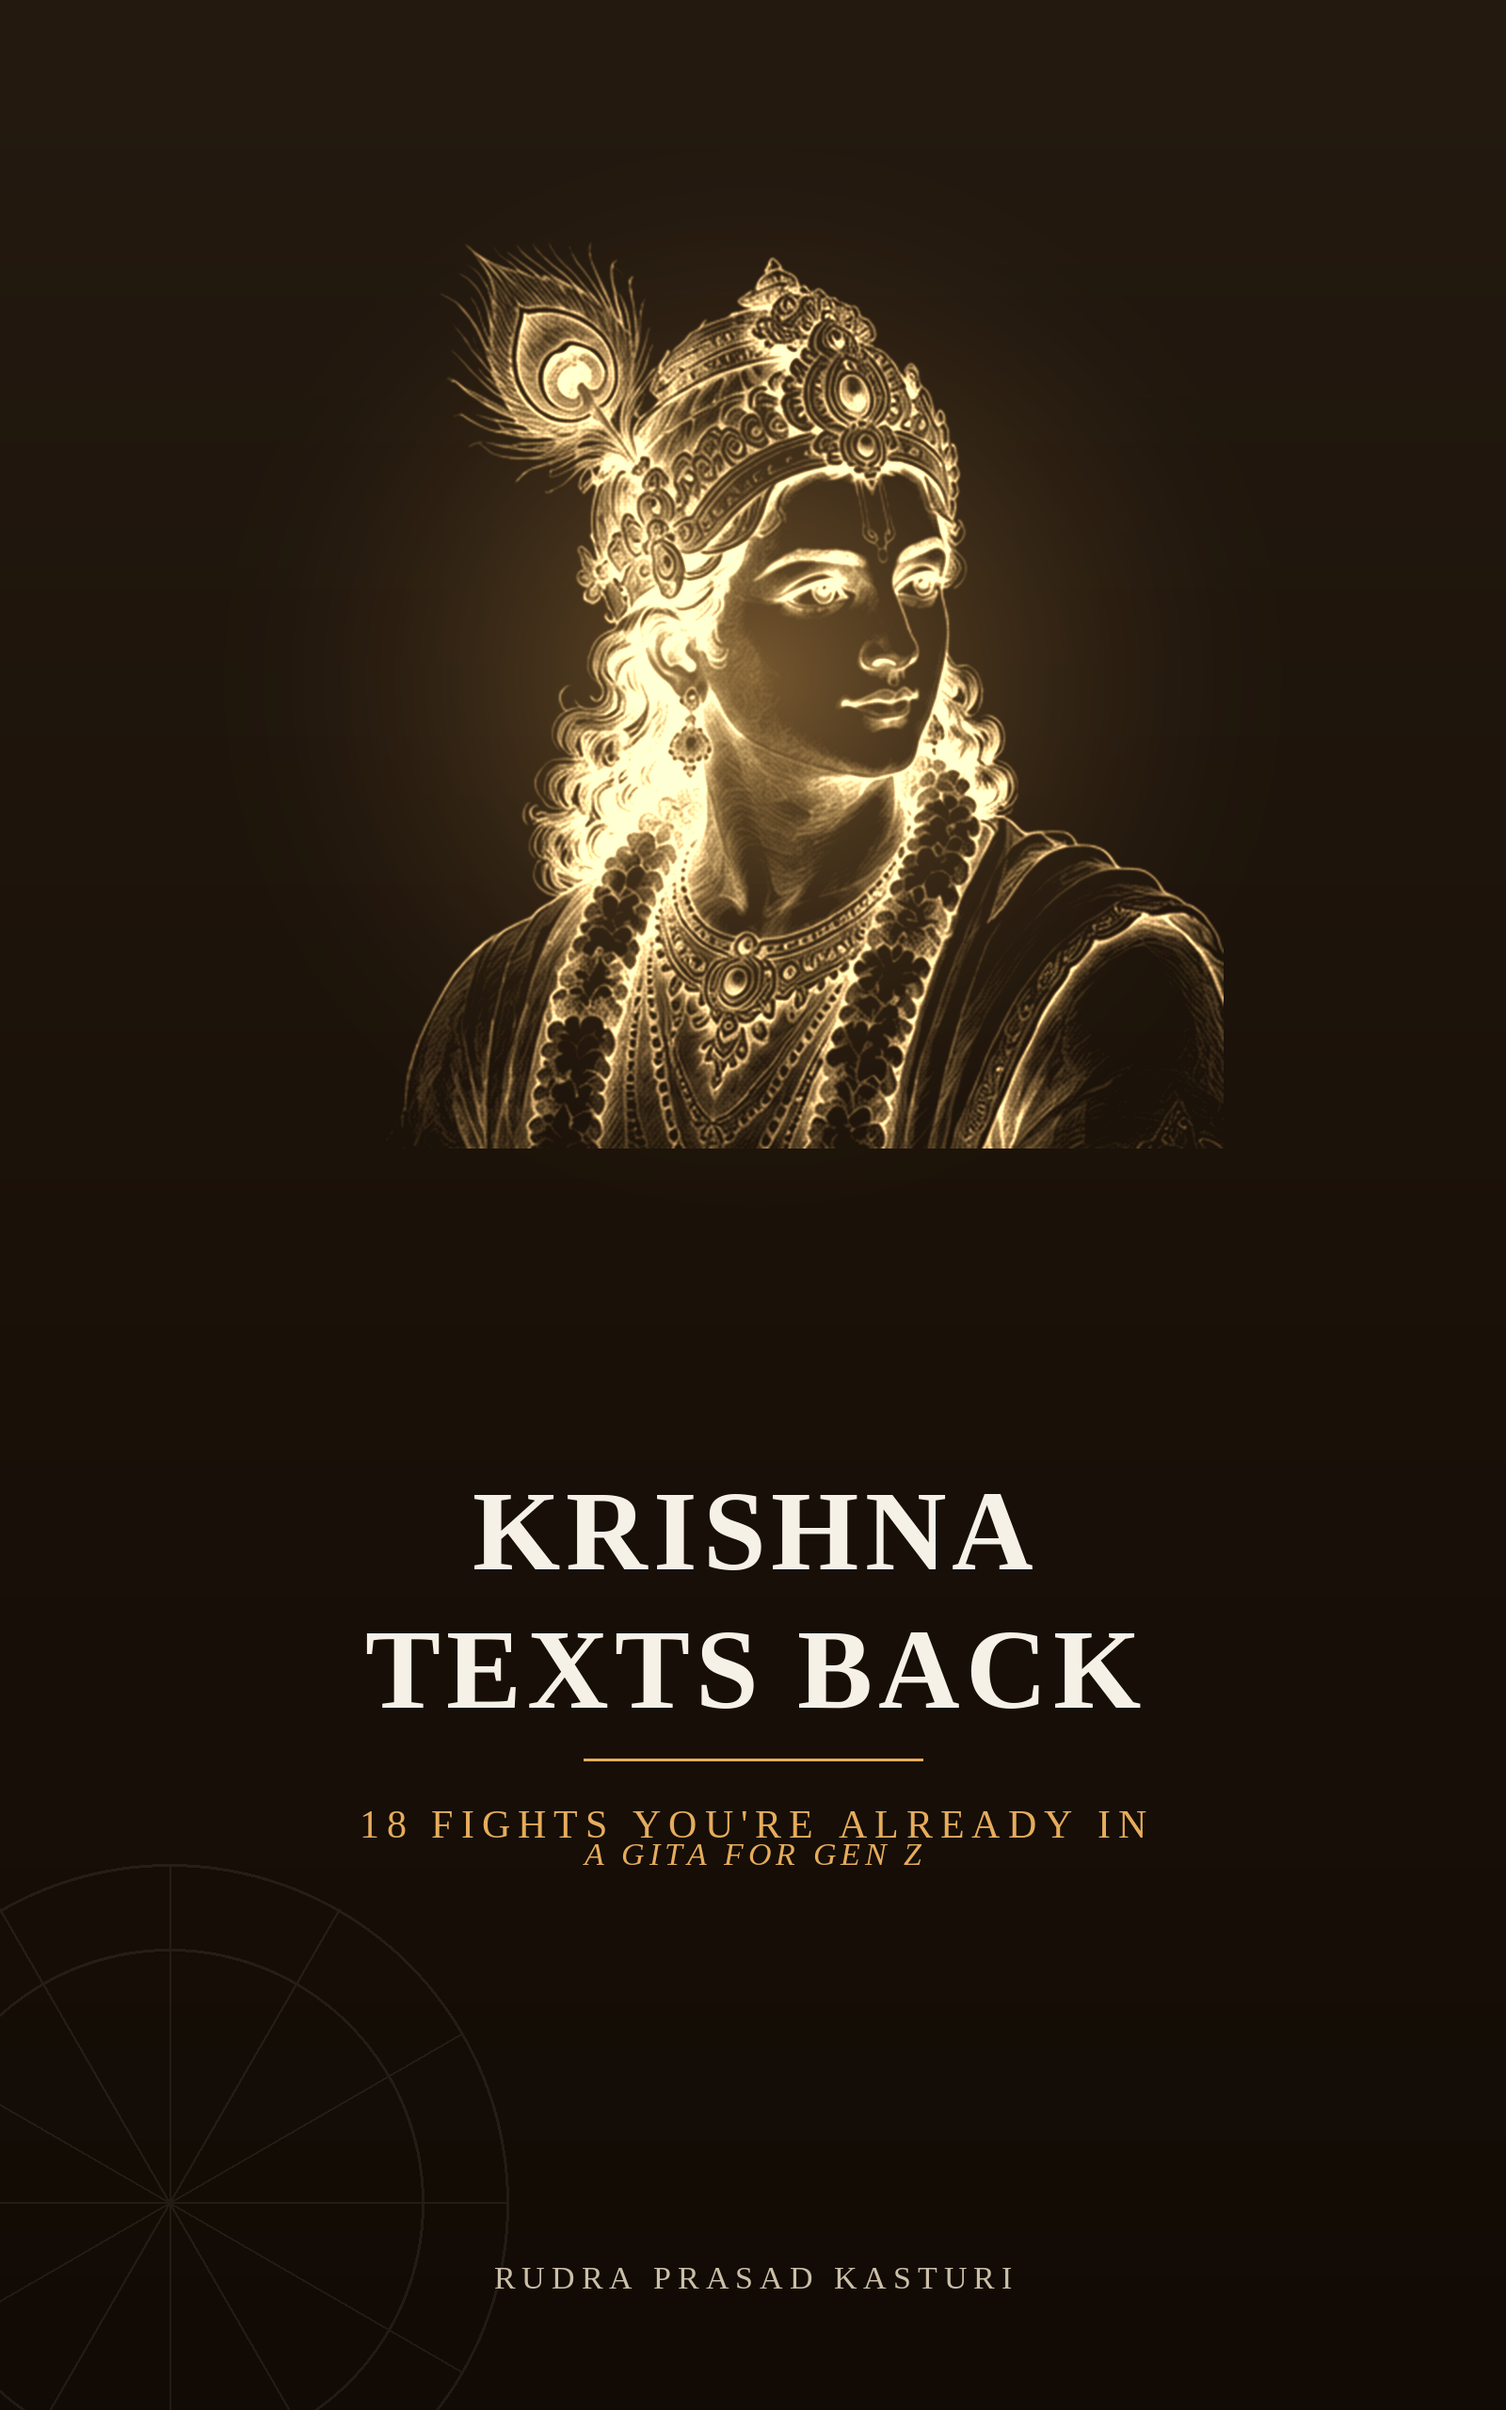
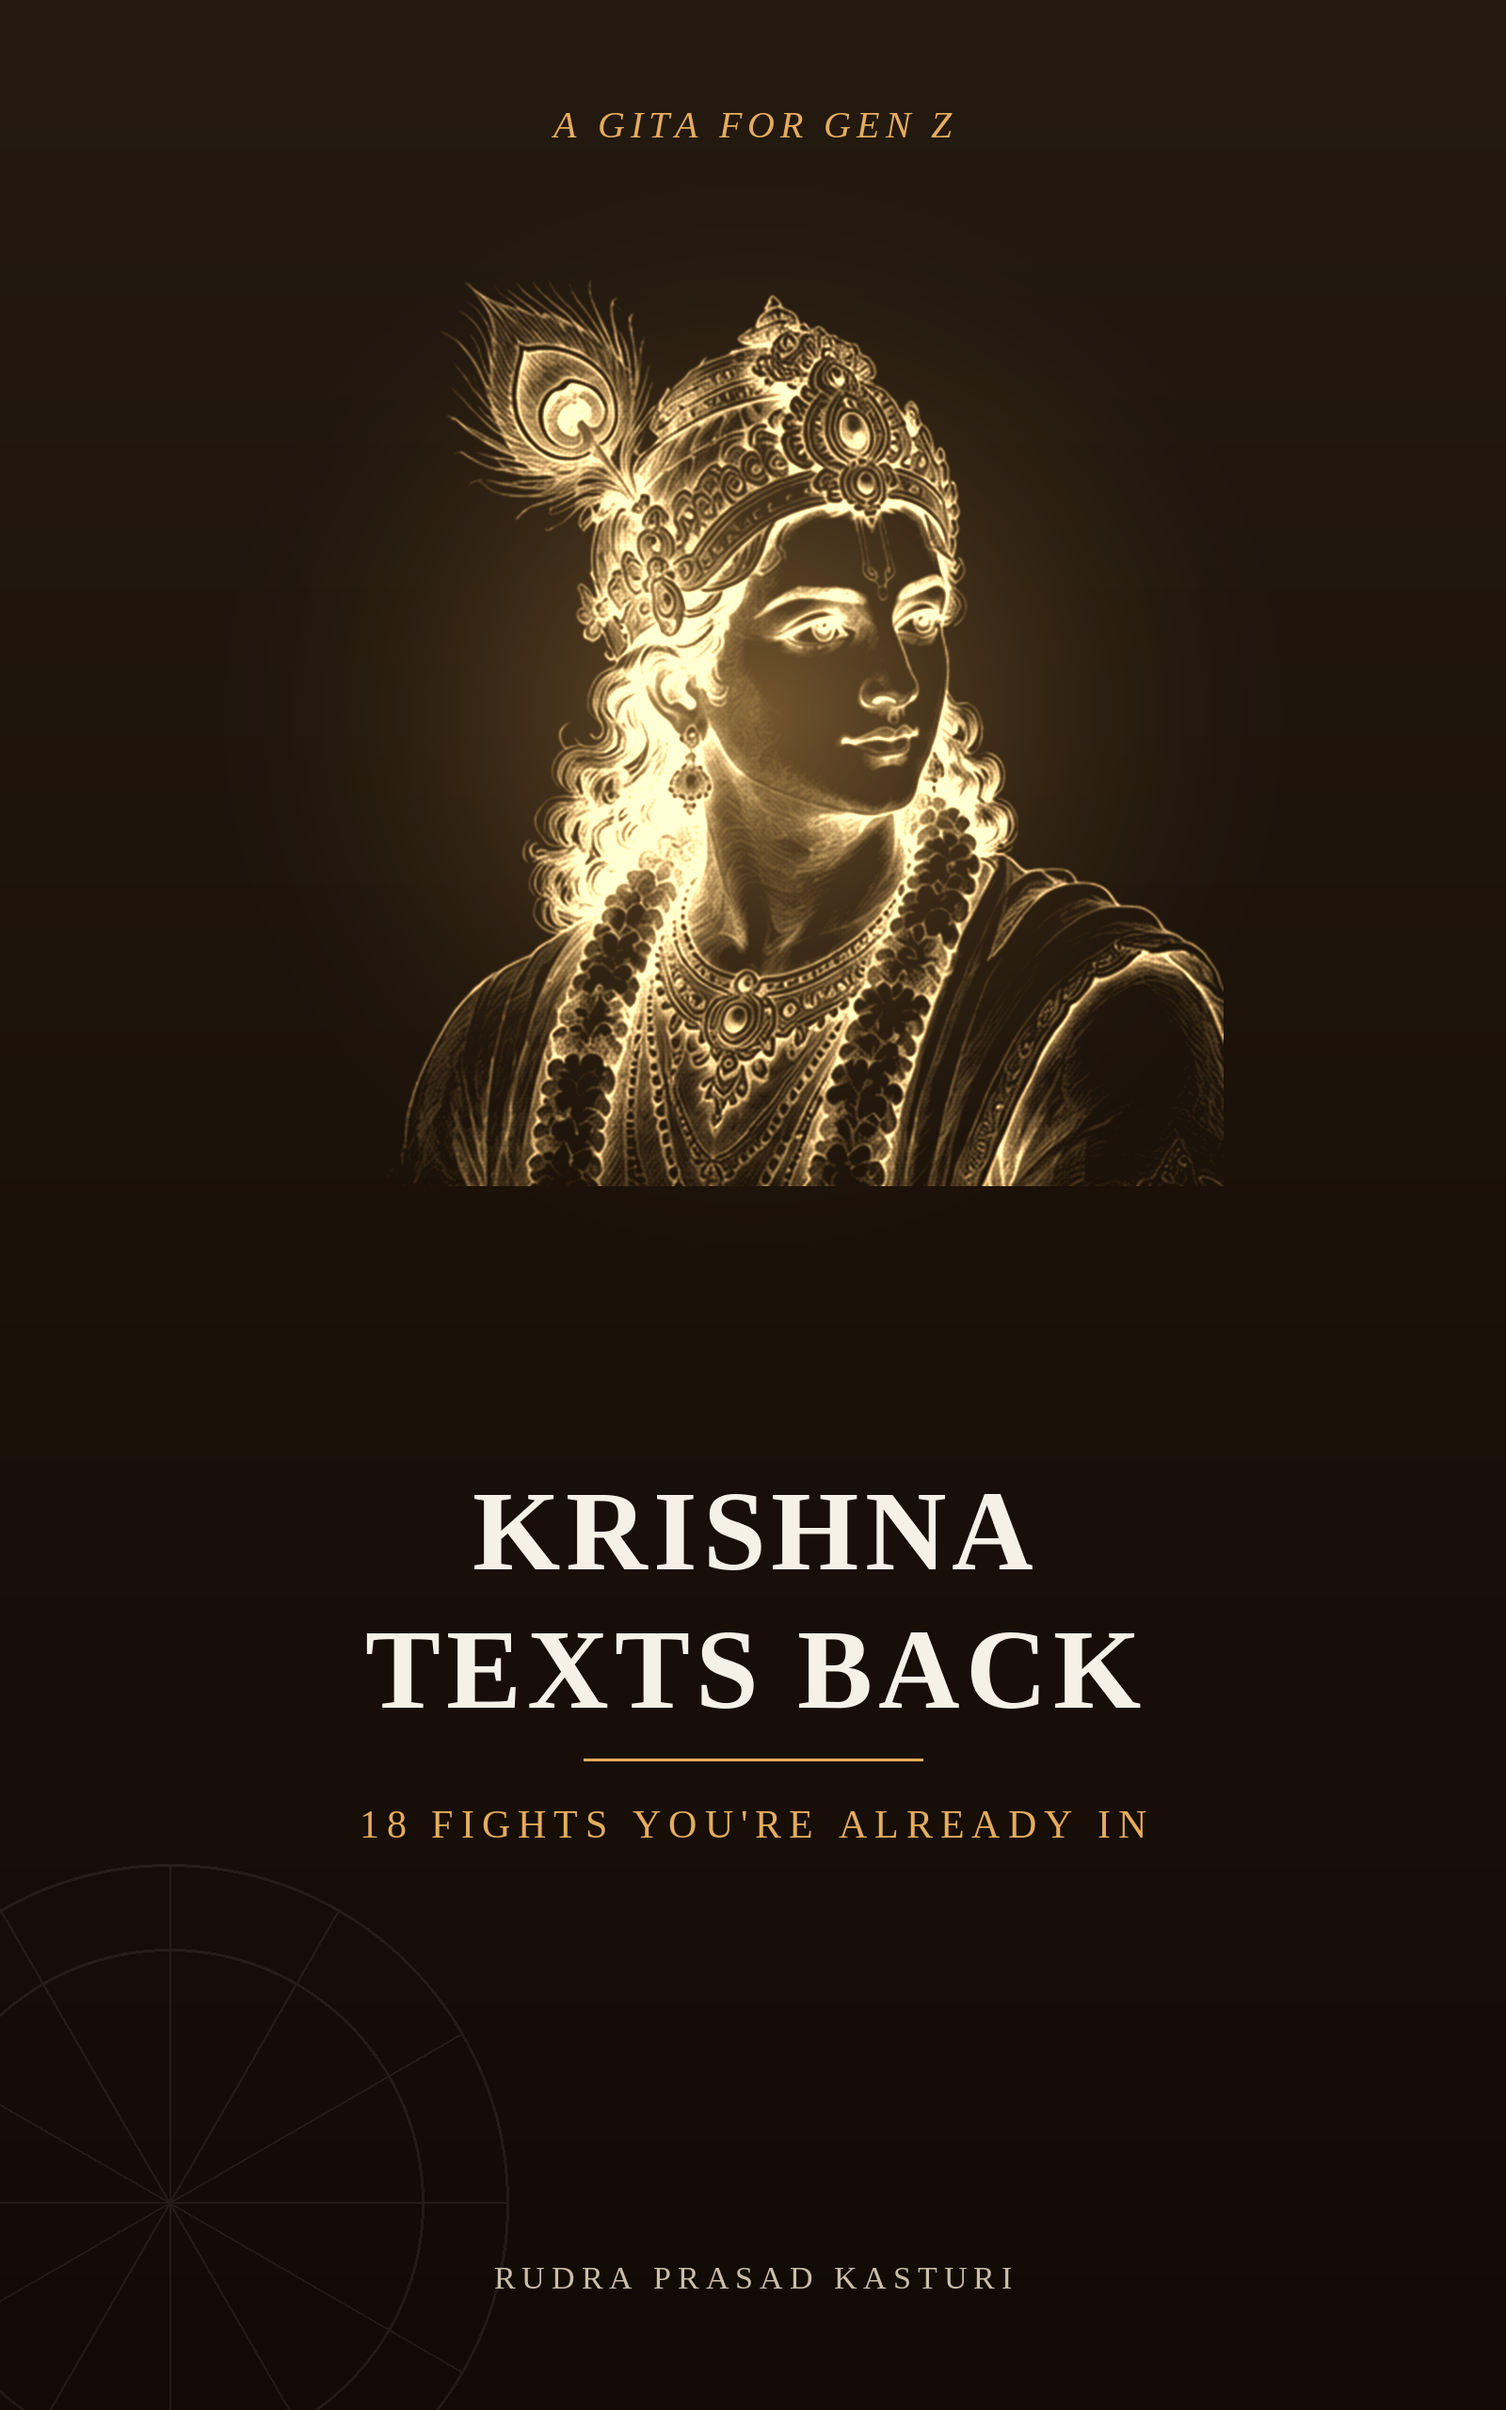
Fix tagline overlap: move 'A Gita for Gen Z' above the title, not under the subtitle
The tagline was cramped directly under '18 Fights You're Already In'
on both the cover and interior title pages, visually overlapping.
Moved it to sit above the title/portrait instead, as a small eyebrow
line -- more visible and no longer touching the subtitle.

Changed region(s): [[0.25, 0.0938, 0.8125, 0.5], [0.5, 0.0312, 0.5312, 0.0625]]

diff --git a/build/epub.css b/build/epub.css
@@ -140,6 +140,15 @@ section.titlepage {
   padding-top: 3.5em;
 }
 
+section.titlepage p.tagline {
+  text-align: center;
+  font-size: 0.75em;
+  font-style: italic;
+  color: #a8471f;
+  letter-spacing: 0.04em;
+  margin-bottom: 1.5em;
+}
+
 h1.title {
   text-align: center;
   font-size: 2.2em;
@@ -150,15 +159,6 @@ section.titlepage p.subtitle {
   text-align: center;
   font-size: 1.15em;
   font-style: italic;
-  margin-bottom: 0.6em;
-}
-
-section.titlepage p.tagline {
-  text-align: center;
-  font-size: 0.85em;
-  font-style: italic;
-  color: #a8471f;
-  letter-spacing: 0.04em;
   margin-bottom: 2.5em;
 }
 

diff --git a/build/scripts/add-tagline.py b/build/scripts/add-tagline.py
@@ -1,13 +1,13 @@
 #!/usr/bin/env python3
-"""Post-processing step: inserts a small tagline line under the subtitle
-on the auto-generated title page, for both the epub and docx outputs.
-Pandoc's built-in title-block only supports title/subtitle/author, so this
-patches the already-built files rather than fighting pandoc's template.
+"""Post-processing step: inserts a small eyebrow tagline line above the
+title on the auto-generated title page, for both the epub and docx
+outputs. Pandoc's built-in title-block only supports title/subtitle/
+author, so this patches the already-built files rather than fighting
+pandoc's template.
 """
 import sys
 import zipfile
 import shutil
-import re
 
 TAGLINE = "A Gita for Gen Z"
 
@@ -23,8 +23,8 @@ def patch_epub(path):
                 if item.filename == title_page_name:
                     text = data.decode("utf-8")
                     text = text.replace(
-                        '<p class="author">',
-                        f'<p class="tagline">{TAGLINE}</p>\n  <p class="author">',
+                        '<h1 class="title">',
+                        f'<p class="tagline">{TAGLINE}</p>\n  <h1 class="title">',
                     )
                     data = text.encode("utf-8")
                 # mimetype must stay stored, uncompressed, first entry
@@ -36,19 +36,19 @@ def patch_epub(path):
 
 def patch_docx(path):
     from docx import Document
-    from docx.enum.text import WD_ALIGN_PARAGRAPH
     import copy
+    from docx.text.paragraph import Paragraph
 
     doc = Document(path)
-    subtitle_idx = next(
-        i for i, p in enumerate(doc.paragraphs) if p.style and p.style.name == "Subtitle"
+    title_idx = next(
+        i for i, p in enumerate(doc.paragraphs) if p.style and p.style.name == "Title"
     )
-    subtitle_p = doc.paragraphs[subtitle_idx]
-    new_p_elem = copy.deepcopy(subtitle_p._p)
-    subtitle_p._p.addnext(new_p_elem)
+    title_p = doc.paragraphs[title_idx]
+    new_p_elem = copy.deepcopy(title_p._p)
+    title_p._p.addprevious(new_p_elem)
 
-    from docx.text.paragraph import Paragraph
-    new_p = Paragraph(new_p_elem, subtitle_p._parent)
+    new_p = Paragraph(new_p_elem, title_p._parent)
+    new_p.style = doc.styles["Subtitle"]
     for run in list(new_p.runs):
         run.text = ""
     if new_p.runs:
@@ -56,8 +56,9 @@ def patch_docx(path):
     else:
         new_p.add_run(TAGLINE)
     for run in new_p.runs:
-        run.font.size = subtitle_p.runs[0].font.size - 20000 if subtitle_p.runs and subtitle_p.runs[0].font.size else None
         run.italic = True
+        if run.font.size:
+            run.font.size = int(run.font.size * 0.7)
 
     doc.save(path)
     print(f"Tagline added to docx title page -> {path}")
